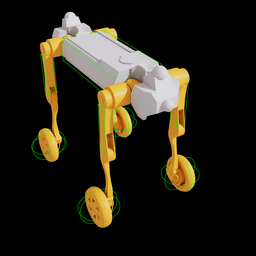
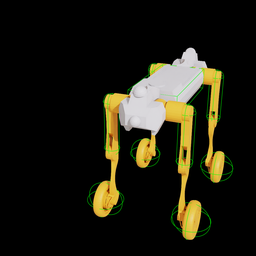
joint_torques_berhu

Changed region(s): [[0.125, 0.0312, 0.9375, 0.9375]]

diff --git a/active_adaptation/envs/mdp/commands/sirius.py b/active_adaptation/envs/mdp/commands/sirius.py
@@ -75,6 +75,7 @@ class SiriusCommandManager(Command):
         lin_vel_x_range,
         lin_vel_y_range,
         ang_vel_z_range = (-2.0, 2.0),
+        transitions = None,
     ):
         super().__init__(env)
         self.lin_vel_x_range = lin_vel_x_range
@@ -87,6 +88,7 @@ class SiriusCommandManager(Command):
 
         self.wheel_joint_ids = self.asset.find_joints(".*_WHEEL")[0]
         self.leg_joint_ids = self.asset.find_joints(".*(HAA|HFE)")[0]
+        self.thigh_joint_ids = self.asset.find_joints(".*HFE")[0]
         self.fore_hip_ids = self.asset.find_bodies("[L,R]F_hip")[0]
         self.hind_hip_ids = self.asset.find_bodies("[L,R]H_hip")[0]
         
@@ -113,12 +115,14 @@ class SiriusCommandManager(Command):
         
         self._command = SiriusCommand.zero(self.num_envs, self.device)
         with torch.device(self.device):
-            self.transition = torch.eye(4) 
-            self.transition[self.CMD_WALK]  = torch.tensor([.2, .8, 0., .0]) # normal to others
-            self.transition[self.CMD_STAND] = torch.tensor([1., 0., 0., 0.]) # stand to others
-            self.transition[self.CMD_JUMP]  = torch.tensor([1., 0., 0., 0.]) # jump to others
-            self.transition[self.CMD_FLIP]  = torch.tensor([1., 0., 0., 0.]) # flip to others
-            
+            if transitions is None:
+                self.transition = torch.eye(4) 
+                self.transition[self.CMD_WALK]  = torch.tensor([.2, .8, 0., .0]) # normal to others
+                self.transition[self.CMD_STAND] = torch.tensor([1., 0., 0., 0.]) # stand to others
+                self.transition[self.CMD_JUMP]  = torch.tensor([1., 0., 0., 0.]) # jump to others
+                self.transition[self.CMD_FLIP]  = torch.tensor([1., 0., 0., 0.]) # flip to others
+            else:
+                self.transition = torch.as_tensor(transitions)
             self.transition /= self.transition.sum(1, keepdim=True)
             
         if self.env.sim.has_gui() and self.env.backend == "isaac":
@@ -243,22 +247,12 @@ class SiriusCommandManager(Command):
             + (self._command.cmd_rpy[:, 0:1].sin() + self.asset.data.projected_gravity_b[:, 1:2]).square()
             + (self._command.cmd_rpy[:, 0:1].cos() + self.asset.data.projected_gravity_b[:, 2:3]).square()
         )
-        # print(self.roll_error_l2.squeeze(1))
 
         jump_height = torch.clamp_min(0.5 - .5*9.81*(self._command.time - self._command.duration/2)**2, 0.)
         target_base_height = 0.5 + jump_height
         
         self.target_jump_lin_vel = (target_base_height - self.target_base_height) / self.env.step_dt
         self.target_base_height = target_base_height
-        # print(self.base_height_error_l2.squeeze(1))
-
-        # self.height_at_center = self.env.get_ground_height_at(self.asset.data.root_pos_w).unsqueeze(1)
-
-        # self.front_height = self.asset.data.body_pos_w[:, self.front_body_id, 2:3] - self.height_at_center
-        # self.back_height = self.asset.data.body_pos_w[:, self.back_body_id, 2:3] - self.height_at_center
-
-        # self.front_height_error_l2 = (self.front_height - self.target_base_height).square()
-        # self.back_height_error_l2 = (self.back_height - self.target_base_height).square()
         
         cmd_yaw_diff = (self._command.mode == self.CMD_WALK) \
             .mul(wrap_to_pi(self._command.des_rpy[:, 2] - self.asset.data.heading_w)) \
@@ -273,11 +267,6 @@ class SiriusCommandManager(Command):
         )
         self._command.cmd_rpy[:, 1:2].lerp_(self._command.des_rpy[:, 1:2], 0.4)
         self._command.cmd_ang_vel[:, 2:3] = (self._command.yaw_stiffness * cmd_yaw_diff).clamp(*self.ang_vel_z_range)
-
-        # self._command.des_stand_vel = 4. * (1.3 - self._command.des_stand_hei)
-        # des_stand_acc = self.stand_kp * (1.3 - self._command.des_stand_hei) - self.stand_kd * self._command.des_stand_vel
-        # self._command.des_stand_vel.add_(self.env.step_dt * des_stand_acc)
-        # self._command.des_stand_hei.add_(self.env.step_dt * self._command.des_stand_vel)
 
         sample = (self.env.episode_length_buf-20) % 175 == 0
         sample |= self._command.phase.squeeze(1) > 1.0
